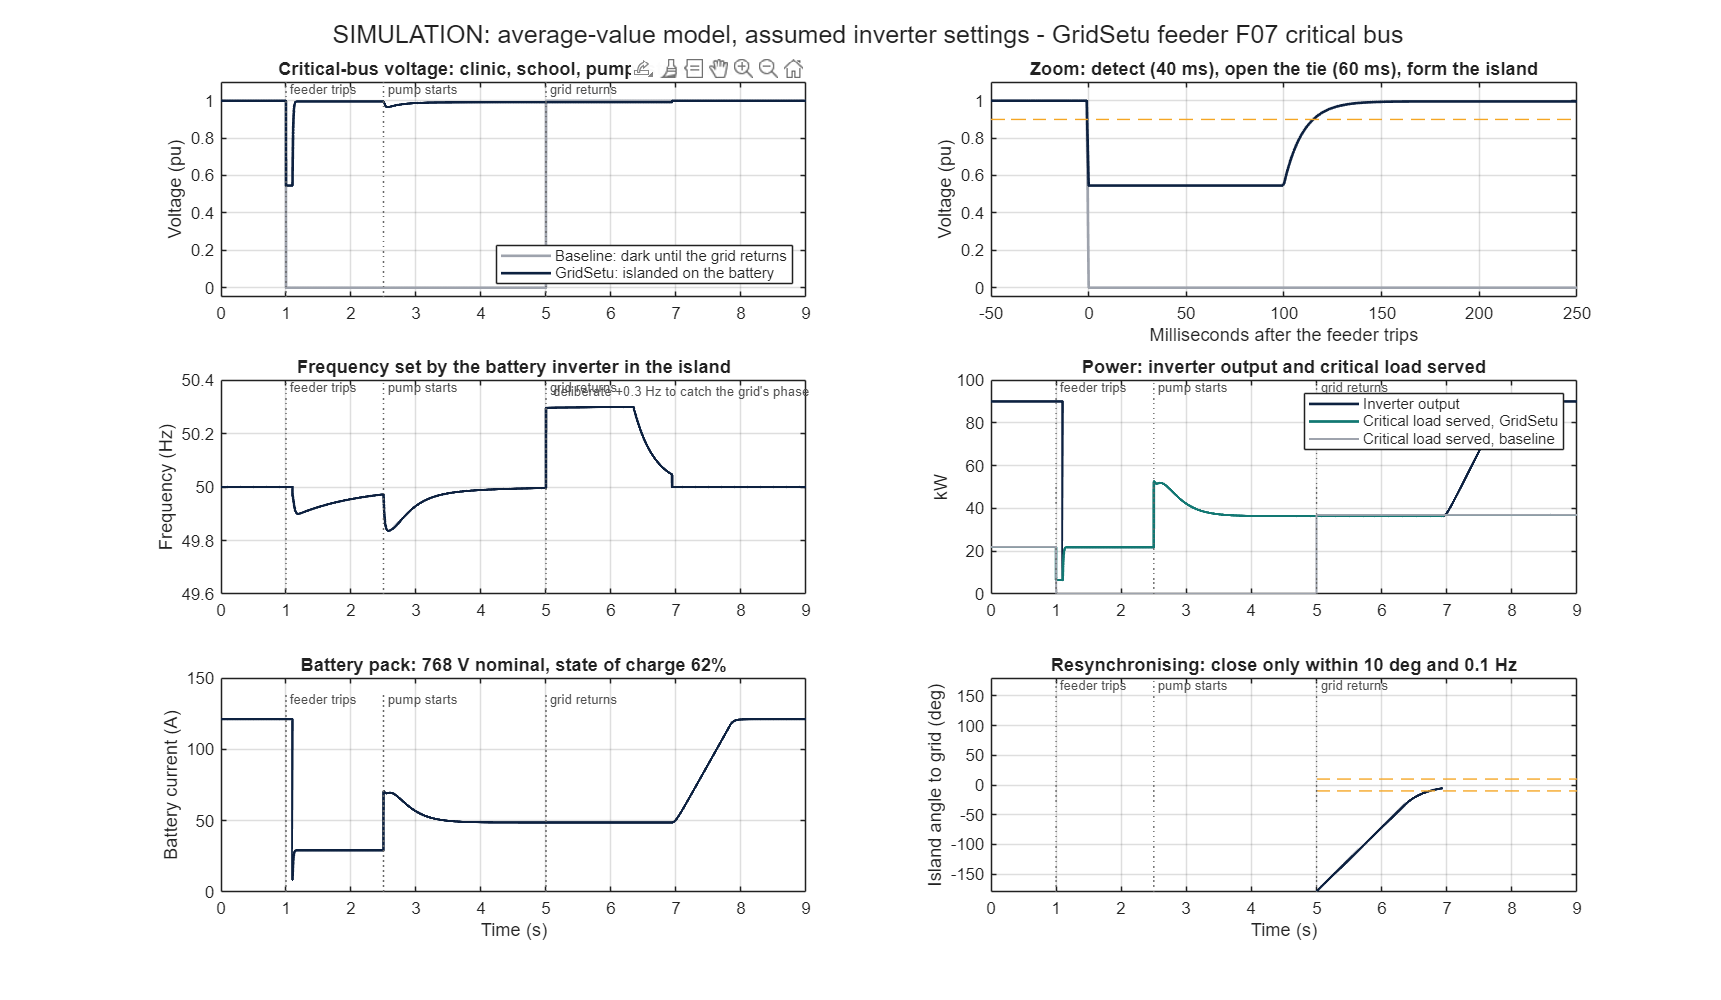
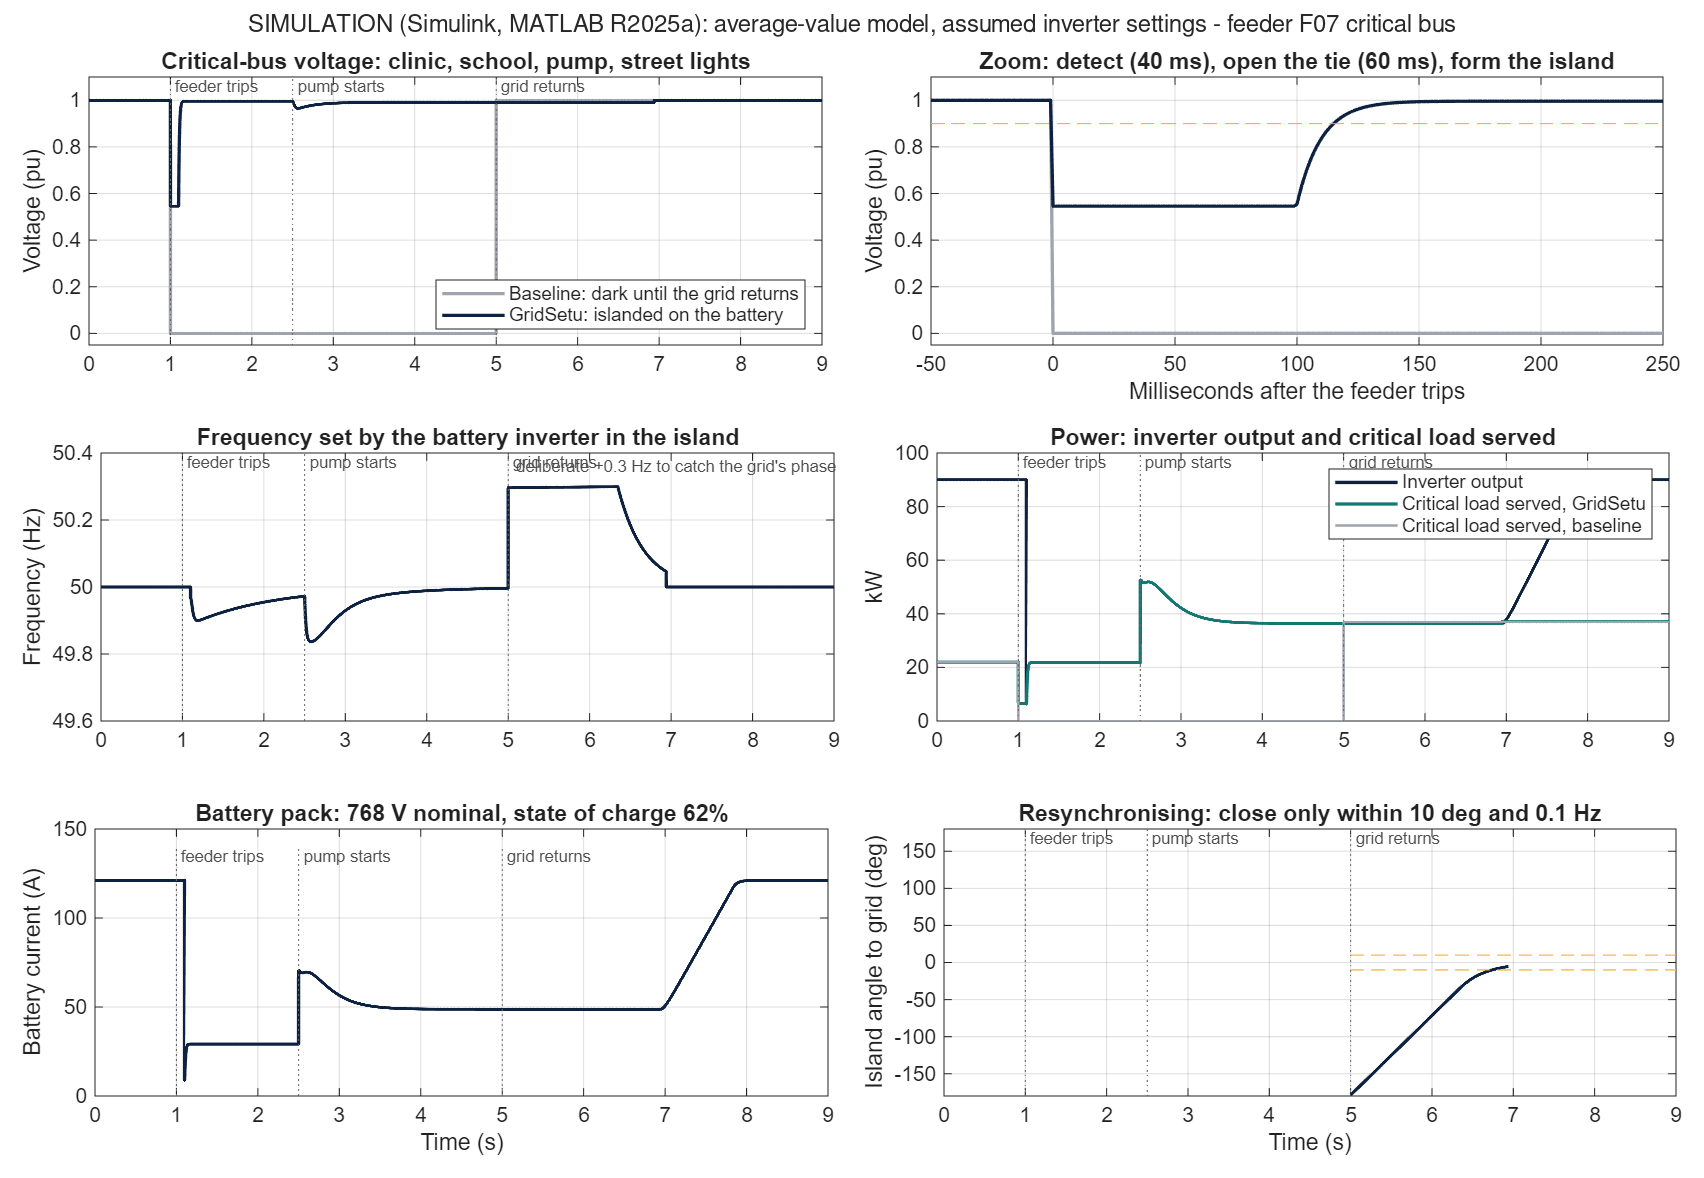
Islanding: clean Simulink figure and the model diagram in the README

diff --git a/matlab/islanding/run_islanding.m b/matlab/islanding/run_islanding.m
@@ -142,7 +142,7 @@ title('Zoom: detect (40 ms), open the tie (60 ms), form the island');
 subplot(3, 2, 3);
 plot(t, G(:, 2), 'Color', navy, 'LineWidth', 1.6); hold on;
 mark(ev, evl, [49.6 50.4]); ylim([49.6 50.4]); xlim([0 p.t_end]); grid on;
-text(p.t_return + 0.1, 50.36, 'deliberate +0.3 Hz to catch the grid''s phase', 'FontSize', 8, 'Color', [0.3 0.3 0.3]);
+text(p.t_return + 0.1, 50.33, 'deliberate +0.3 Hz to catch the grid''s phase', 'FontSize', 8, 'Color', [0.3 0.3 0.3]);
 ylabel('Frequency (Hz)'); title('Frequency set by the battery inverter in the island');
 
 subplot(3, 2, 4);

diff --git a/README.md b/README.md
@@ -515,6 +515,8 @@ Everything above works in 15-minute steps. [`matlab/islanding/`](matlab/islandin
 - **Baseline:** the critical bus is dark for the whole outage.
 - **Honest limit:** the 100 ms dip to 0.55 pu is a flicker for lights, fans and the pump but outside the ITIC curve for sensitive electronics. The clinic needs a small UPS, or the inverter should stay grid-forming while connected; that variant is next.
 
+<img src="docs/images/islanding-simulink-model.png" alt="The generated Simulink model: clock, variant switch, GridSetu critical-bus function, state memory, scopes" width="100%">
+
 <img src="docs/images/islanding-waveforms.png" alt="Simulink run: critical-bus voltage, frequency, power, battery current and resynchronisation through a feeder trip" width="100%">
 
 The Simulink model is generated by code (`build_islanding_model.m`), and `run_islanding` checks it against the same equations run as a plain loop: in MATLAB R2025a the two agree exactly (largest difference 0). Details in [`matlab/README.md`](matlab/README.md).
